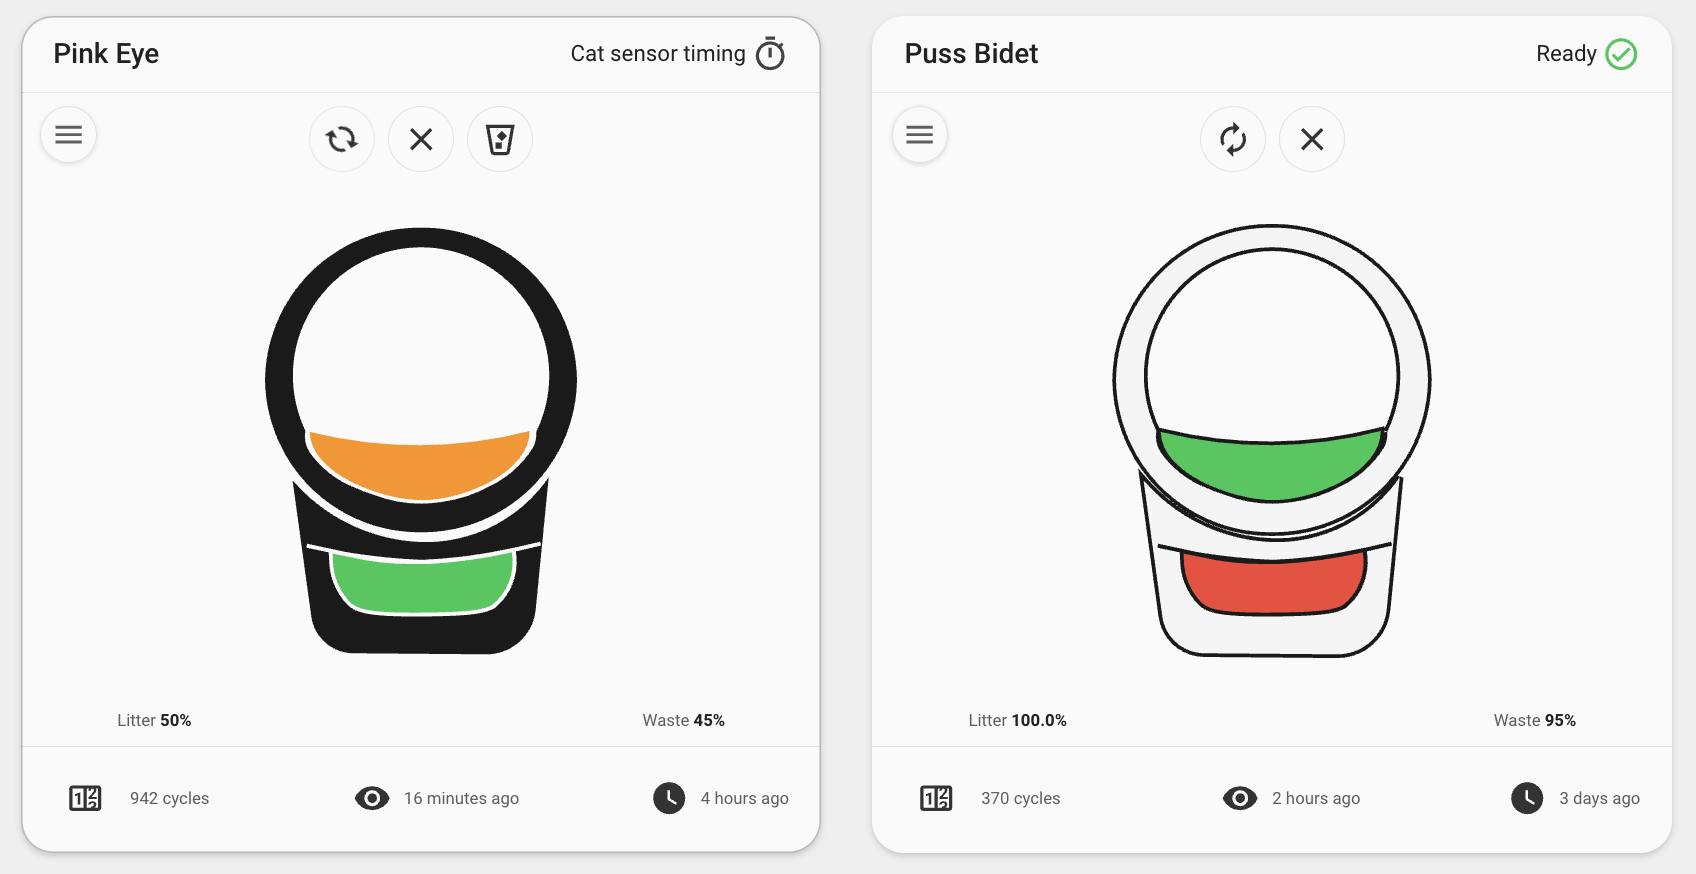
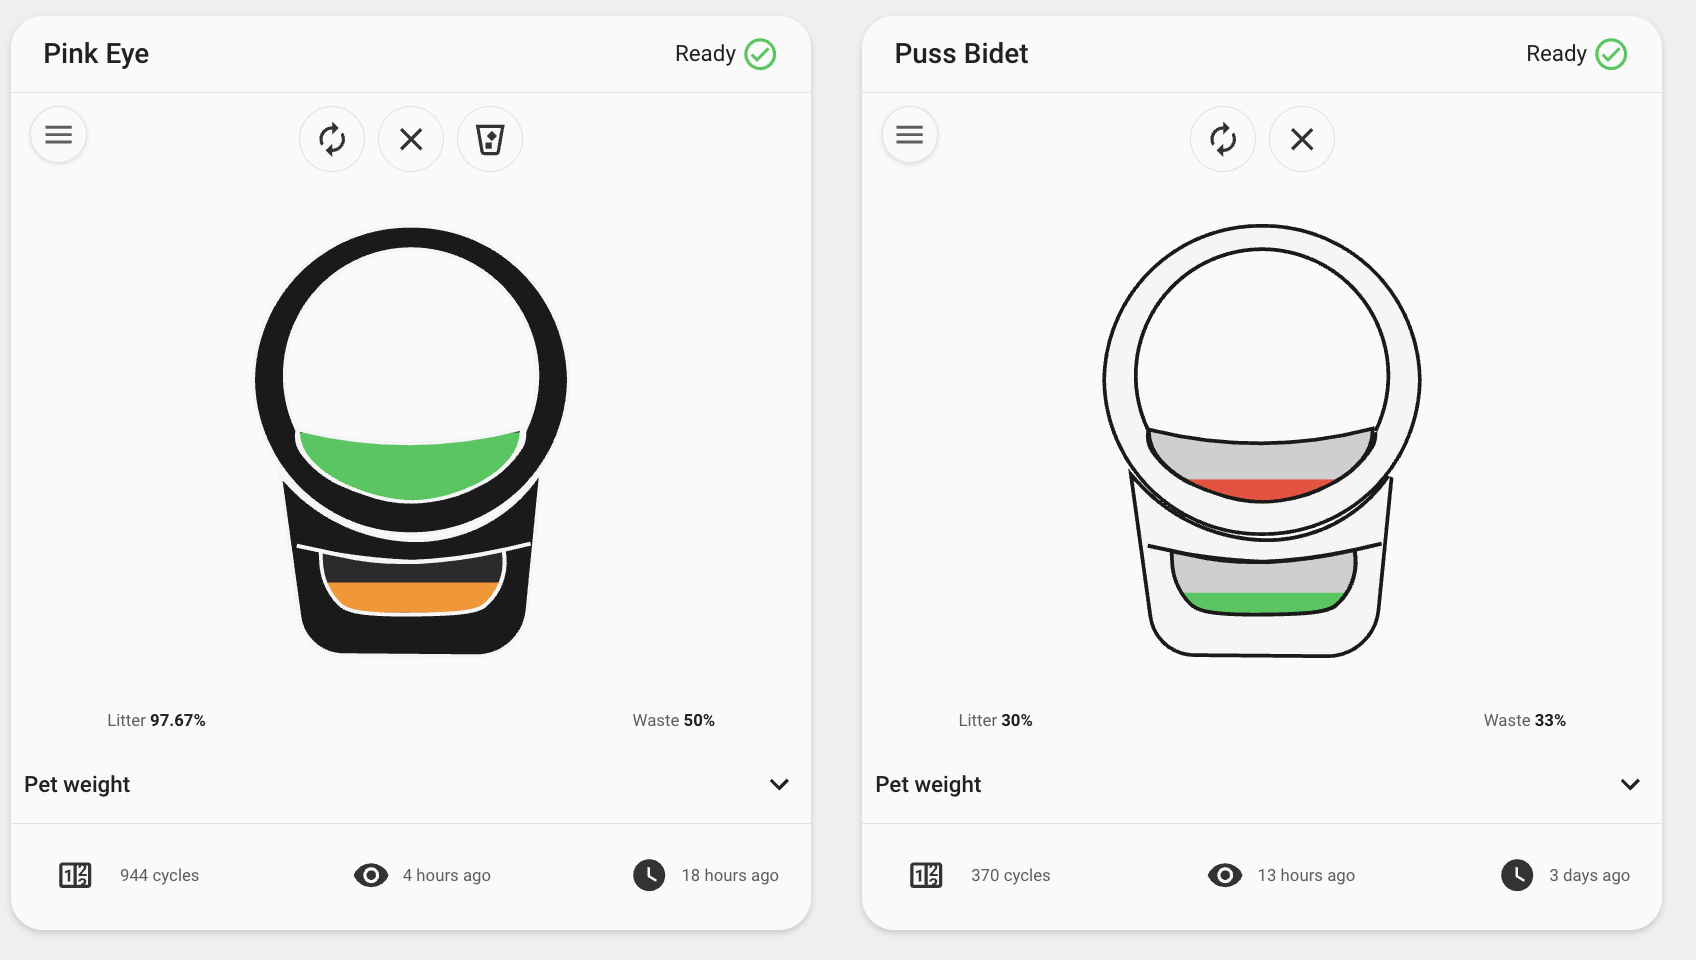
fill based coloring on illustrated mode - thanks @timb320tg!

diff --git a/src/cards/components/svg-levels/svg-levels.ts b/src/cards/components/svg-levels/svg-levels.ts
@@ -7,7 +7,14 @@ import { SubscribeEntityStateMixin } from '@homeassistant-extras/hass/mixins/sub
 import { stateDisplay } from '@homeassistant-extras/hass/render/state-display';
 import { html, LitElement, nothing, type TemplateResult } from 'lit';
 import { customElement } from 'lit/decorators.js';
-import { LITTER_ZONE_D, ROBOT_BODY_D, WASTE_ZONE_D } from './paths';
+import { fillClipRect } from './fill';
+import {
+  LITTER_ZONE_BOUNDS,
+  LITTER_ZONE_D,
+  ROBOT_BODY_D,
+  WASTE_ZONE_BOUNDS,
+  WASTE_ZONE_D,
+} from './paths';
 import { litterSeverityClass, wasteZoneSeverityClass } from './severity';
 import { svgLevelsStyles as styles } from './styles';
 
@@ -62,12 +69,16 @@ export class WhiskerSvgLevels extends SubscribeEntityStateMixin(
       ? this.states[this.waste_drawer]
       : undefined;
 
-    const litterSeverity = litterSeverityClass(
-      numericLevelFromEntityState(litterState),
-    );
-    const wasteSeverity = wasteZoneSeverityClass(
-      numericLevelFromEntityState(wasteState),
-    );
+    const litterLevel = numericLevelFromEntityState(litterState);
+    const wasteLevel = numericLevelFromEntityState(wasteState);
+    const litterSeverity = litterSeverityClass(litterLevel);
+    const wasteSeverity = wasteZoneSeverityClass(wasteLevel);
+
+    // Fills rise from the bottom of each zone in proportion to its level, so
+    // the drawn amount always matches the reported percentage. Color continues
+    // to carry good/bad, which is inverted between the two zones.
+    const litterFill = fillClipRect(litterLevel, LITTER_ZONE_BOUNDS);
+    const wasteFill = fillClipRect(wasteLevel, WASTE_ZONE_BOUNDS);
     const bodyClass = `body body-${this.config?.color ?? DEFAULT_COLOR}`;
 
     // Keep every <path> in this same template so Lit creates SVG-namespace nodes.
@@ -79,16 +90,48 @@ export class WhiskerSvgLevels extends SubscribeEntityStateMixin(
           role="img"
           aria-label="Litter and waste levels"
         >
+          <defs>
+            <clipPath id="litter-fill">
+              <rect
+                x="0"
+                width="24"
+                y=${litterFill.y}
+                height=${litterFill.height}
+              ></rect>
+            </clipPath>
+            <clipPath id="waste-fill">
+              <rect
+                x="0"
+                width="24"
+                y=${wasteFill.y}
+                height=${wasteFill.height}
+              ></rect>
+            </clipPath>
+          </defs>
           <path class=${bodyClass} fill-rule="evenodd" d=${ROBOT_BODY_D}></path>
           <path
-            class="zone litter ${litterSeverity}"
+            class="zone-empty litter"
             d=${LITTER_ZONE_D}
             ?hidden=${!this.litter_level}
             @click=${this._openLitter}
           ></path>
           <path
+            class="zone litter ${litterSeverity}"
+            d=${LITTER_ZONE_D}
+            clip-path="url(#litter-fill)"
+            ?hidden=${!this.litter_level}
+            @click=${this._openLitter}
+          ></path>
+          <path
+            class="zone-empty waste"
+            d=${WASTE_ZONE_D}
+            ?hidden=${!this.waste_drawer}
+            @click=${this._openWaste}
+          ></path>
+          <path
             class="zone waste ${wasteSeverity}"
             d=${WASTE_ZONE_D}
+            clip-path="url(#waste-fill)"
             ?hidden=${!this.waste_drawer}
             @click=${this._openWaste}
           ></path>

diff --git a/test/cards/components/svg-levels/svg-levels.spec.ts b/test/cards/components/svg-levels/svg-levels.spec.ts
@@ -1,3 +1,7 @@
+import {
+  LITTER_ZONE_BOUNDS,
+  WASTE_ZONE_BOUNDS,
+} from '@cards/components/svg-levels/paths';
 import { WhiskerSvgLevels } from '@cards/components/svg-levels/svg-levels';
 import type { HassEntity } from '@homeassistant-extras/hass/ws/types';
 import { fixture } from '@open-wc/testing-helpers';
@@ -50,6 +54,25 @@ describe('svg-levels.ts', () => {
     // fills come from CSS classes (not presentation attrs — var() is unreliable there)
     expect(litter?.hasAttribute('fill')).to.be.false;
     expect(waste?.hasAttribute('fill')).to.be.false;
+
+    // Each zone is clipped to its level over an unfilled backdrop. jsdom does
+    // not lay out SVG, so assert the wiring and the rect geometry; the
+    // arithmetic itself is covered in fill.spec.ts.
+    expect(el.querySelector('.zone-empty.litter')).to.exist;
+    expect(el.querySelector('.zone-empty.waste')).to.exist;
+    expect(litter?.getAttribute('clip-path')).to.equal('url(#litter-fill)');
+    expect(waste?.getAttribute('clip-path')).to.equal('url(#waste-fill)');
+
+    const litterRect = el.querySelector('#litter-fill rect');
+    const wasteRect = el.querySelector('#waste-fill rect');
+    expect(Number(litterRect?.getAttribute('height'))).to.be.closeTo(
+      LITTER_ZONE_BOUNDS.height * 0.35,
+      1e-6,
+    );
+    expect(Number(wasteRect?.getAttribute('height'))).to.be.closeTo(
+      WASTE_ZONE_BOUNDS.height * 0.6,
+      1e-6,
+    );
     expect(el.querySelector('.body-white')).to.exist;
     expect(el.querySelector('.label-row')).to.be.null;
 

diff --git a/src/cards/components/svg-levels/paths.ts b/src/cards/components/svg-levels/paths.ts
@@ -14,3 +14,16 @@ export const LITTER_ZONE_D =
 /** Waste drawer level zone. */
 export const WASTE_ZONE_D =
   'M12.334 17.768H11.643A13 13 0 0 1 8.532 17.414A11 11 0 0 1 7.855 17.276L7.873 17.669A2.85 2.85 0 0 0 8.661 19.536C9 19.861 9.427 20.072 12.118 20.044C14.206 20.022 14.94 19.933 15.391 19.644A2.61 2.61 0 0 0 16.284 17.431A0.6 0.6 0 0 0 16.255 17.221A24 24 0 0 1 12.334 17.768';
+
+/*
+ * Rendered vertical extents of the zone paths above, used to clip proportional
+ * fills. These are each path's exact `getBBox()` y/height — do not pad them.
+ * Both zones are thin crescents, so a rect taller than the shape lets a full
+ * fill bleed past the rim it should stop at. Re-measure if the paths change.
+ */
+
+/** Litter zone extent (bed surface up to the globe rim). */
+export const LITTER_ZONE_BOUNDS = { top: 11.53, height: 3.243 };
+
+/** Waste zone extent (drawer interior). */
+export const WASTE_ZONE_BOUNDS = { top: 17.221, height: 2.825 };

diff --git a/src/cards/components/svg-levels/fill.ts b/src/cards/components/svg-levels/fill.ts
@@ -1,0 +1,26 @@
+/** Bottom-up proportional fill geometry for the SVG level zones. */
+
+/** Vertical extent of a zone in viewBox units. */
+export interface ZoneBounds {
+  /** Y coordinate of the zone's top edge. */
+  top: number;
+  /** Zone height, top edge to bottom edge. */
+  height: number;
+}
+
+/** Clip rectangle covering the filled portion of a zone. */
+export interface ClipRect {
+  y: number;
+  height: number;
+}
+
+/**
+ * Clip rect covering the bottom `level`% of a zone, so fills rise from the
+ * bottom as the level climbs. Level is clamped to 0–100: 0 yields a zero-height
+ * rect (nothing painted), 100 the full bounds.
+ */
+export function fillClipRect(level: number, bounds: ZoneBounds): ClipRect {
+  const fraction = Math.min(100, Math.max(0, level)) / 100;
+  const height = bounds.height * fraction;
+  return { y: bounds.top + bounds.height - height, height };
+}

diff --git a/test/cards/components/svg-levels/fill.spec.ts b/test/cards/components/svg-levels/fill.spec.ts
@@ -1,0 +1,20 @@
+import { fillClipRect } from '@cards/components/svg-levels/fill';
+import { expect } from 'chai';
+
+const BOUNDS = { top: 10, height: 4 };
+
+describe('fill.ts', () => {
+  it('fills the zone from the bottom up', () => {
+    // Empty: zero-height rect sitting on the bottom edge.
+    expect(fillClipRect(0, BOUNDS)).to.deep.equal({ y: 14, height: 0 });
+    // Half full: covers the lower half only.
+    expect(fillClipRect(50, BOUNDS)).to.deep.equal({ y: 12, height: 2 });
+    // Full: the whole zone.
+    expect(fillClipRect(100, BOUNDS)).to.deep.equal({ y: 10, height: 4 });
+  });
+
+  it('clamps levels outside 0-100', () => {
+    expect(fillClipRect(-20, BOUNDS)).to.deep.equal({ y: 14, height: 0 });
+    expect(fillClipRect(150, BOUNDS)).to.deep.equal({ y: 10, height: 4 });
+  });
+});

diff --git a/src/cards/components/svg-levels/styles.ts b/src/cards/components/svg-levels/styles.ts
@@ -55,6 +55,18 @@ export const svgLevelsStyles = css`
     transition: fill 0.25s ease;
   }
 
+  /*
+   * The unfilled remainder of each vessel, drawn under the clipped fill so a
+   * part-full zone still reads as a container rather than a floating sliver.
+   * Tinted from the surrounding text color so it works on light and dark.
+   */
+  .zone-empty {
+    fill: var(--secondary-text-color, #727272);
+    opacity: 0.25;
+    cursor: pointer;
+    pointer-events: auto;
+  }
+
   .zone.zone-warn {
     fill: var(--warning-color, #ff9800);
   }
@@ -64,7 +76,8 @@ export const svgLevelsStyles = css`
   }
 
   /* the hidden attribute is not honored on SVG elements by default */
-  .zone[hidden] {
+  .zone[hidden],
+  .zone-empty[hidden] {
     display: none;
   }
 

diff --git a/docs/configuration/OPTIONS.md b/docs/configuration/OPTIONS.md
@@ -1,16 +1,16 @@
 # Configuration options
 
-| Option            | Type     | Description                                                                                                                                                                                                                        |
-| ----------------- | -------- | ---------------------------------------------------------------------------------------------------------------------------------------------------------------------------------------------------------------------------------- |
-| `device_id`       | string   | **Required.** Home Assistant device id for the Litter-Robot.                                                                                                                                                                       |
-| `title`           | string   | Optional. Overrides the card heading; defaults to the device name.                                                                                                                                                                 |
-| `cleaning_entity` | string   | Optional. Entity (`input_boolean`, `alert`, `binary_sensor`, or `switch`) whose active state shows a "needs cleaning" header badge + card glow. See [Cleaning reminder](CLEANING-REMINDER.md).                                     |
-| `color`           | string   | Optional. Robot artwork color: `white` (default) or `black`.                                                                                                                                                                       |
-| `mini`            | boolean  | Optional. Compact layout: title row and litter/waste gauges only. Hides the artwork, quick actions, controls menu, graphs, and footer. See [Mini layout](#mini-layout) below.                                                      |
-| `footer`          | string[] | Optional. Footer metrics in display order. See [footer items](#footer-items) below.                                                                                                                                                |
-| `features`        | string[] | Optional. Feature flags. `percentage` — show fill % on litter and waste gauges. `illustrated` — robot illustration with colored litter/waste zones instead of the marketing image and bars. See [Feature flags](FEATURE-FLAGS.md). |
-| `chonk`           | object   | Optional. Pet weight graph options (history or statistics graph). See [Pet weight graph](#pet-weight-graph) below.                                                                                                                 |
-| `visits`          | object   | Optional. Pet visits graph options (daily litter box visits per cat). See [Pet visits graph](#pet-visits-graph) below.                                                                                                             |
+| Option            | Type     | Description                                                                                                                                                                                                                                                    |
+| ----------------- | -------- | -------------------------------------------------------------------------------------------------------------------------------------------------------------------------------------------------------------------------------------------------------------- |
+| `device_id`       | string   | **Required.** Home Assistant device id for the Litter-Robot.                                                                                                                                                                                                   |
+| `title`           | string   | Optional. Overrides the card heading; defaults to the device name.                                                                                                                                                                                             |
+| `cleaning_entity` | string   | Optional. Entity (`input_boolean`, `alert`, `binary_sensor`, or `switch`) whose active state shows a "needs cleaning" header badge + card glow. See [Cleaning reminder](CLEANING-REMINDER.md).                                                                 |
+| `color`           | string   | Optional. Robot artwork color: `white` (default) or `black`.                                                                                                                                                                                                   |
+| `mini`            | boolean  | Optional. Compact layout: title row and litter/waste gauges only. Hides the artwork, quick actions, controls menu, graphs, and footer. See [Mini layout](#mini-layout) below.                                                                                  |
+| `footer`          | string[] | Optional. Footer metrics in display order. See [footer items](#footer-items) below.                                                                                                                                                                            |
+| `features`        | string[] | Optional. Feature flags. `percentage` — show fill % on litter and waste gauges. `illustrated` — robot illustration whose litter/waste zones fill in proportion to their level, instead of the marketing image and bars. See [Feature flags](FEATURE-FLAGS.md). |
+| `chonk`           | object   | Optional. Pet weight graph options (history or statistics graph). See [Pet weight graph](#pet-weight-graph) below.                                                                                                                                             |
+| `visits`          | object   | Optional. Pet visits graph options (daily litter box visits per cat). See [Pet visits graph](#pet-visits-graph) below.                                                                                                                                         |
 
 ### Mini layout
 

diff --git a/docs/FEATURES.md b/docs/FEATURES.md
@@ -34,7 +34,7 @@ Tap the badge to open the hopper status more-info dialog (or the connected entit
 
 ![hopper](assets/hopper.png)
 
-- **Litter and waste gauges** — Visual fill levels; waste styling reflects severity as the drawer fills. Optionally show fill **percentages**, or switch to **illustrated levels** that replace the marketing image and bars with colored litter/waste zones ([Feature flags](configuration/FEATURE-FLAGS.md)).
+- **Litter and waste gauges** — Visual fill levels; waste styling reflects severity as the drawer fills. Optionally show fill **percentages**, or switch to **illustrated levels** that replace the marketing image and bars with litter/waste zones that fill in proportion to their level and color by severity ([Feature flags](configuration/FEATURE-FLAGS.md)).
 
 ![Illustrated levels](assets/illustrated.png)
 

diff --git a/docs/configuration/FEATURE-FLAGS.md b/docs/configuration/FEATURE-FLAGS.md
@@ -15,7 +15,7 @@ features:
 
 ## Illustrated levels
 
-Replace the marketing robot image and thin litter/waste bars with an opt-in illustration. Litter (globe bed) and waste (drawer panel) zones color by level — green / yellow / red — while the rest of the robot stays neutral. Tap a zone to open that entity's more-info dialog.
+Replace the marketing robot image and thin litter/waste bars with an opt-in illustration. Litter (globe bed) and waste (drawer panel) zones fill from the bottom in proportion to their level — a drawer at 90% draws nearly full — and color by level, green / yellow / red, while the rest of the robot stays neutral. Tap a zone to open that entity's more-info dialog.
 
 ![Illustrated levels](../assets/illustrated.png)
 

diff --git a/docs/configuration/EXAMPLES.md b/docs/configuration/EXAMPLES.md
@@ -36,7 +36,7 @@ features:
 
 ## Illustrated levels
 
-Use the opt-in illustration (colored litter/waste zones) instead of the marketing image and thin bars:
+Use the opt-in illustration (litter/waste zones that fill in proportion to their level) instead of the marketing image and thin bars:
 
 ![Illustrated levels](../assets/illustrated.png)
 
